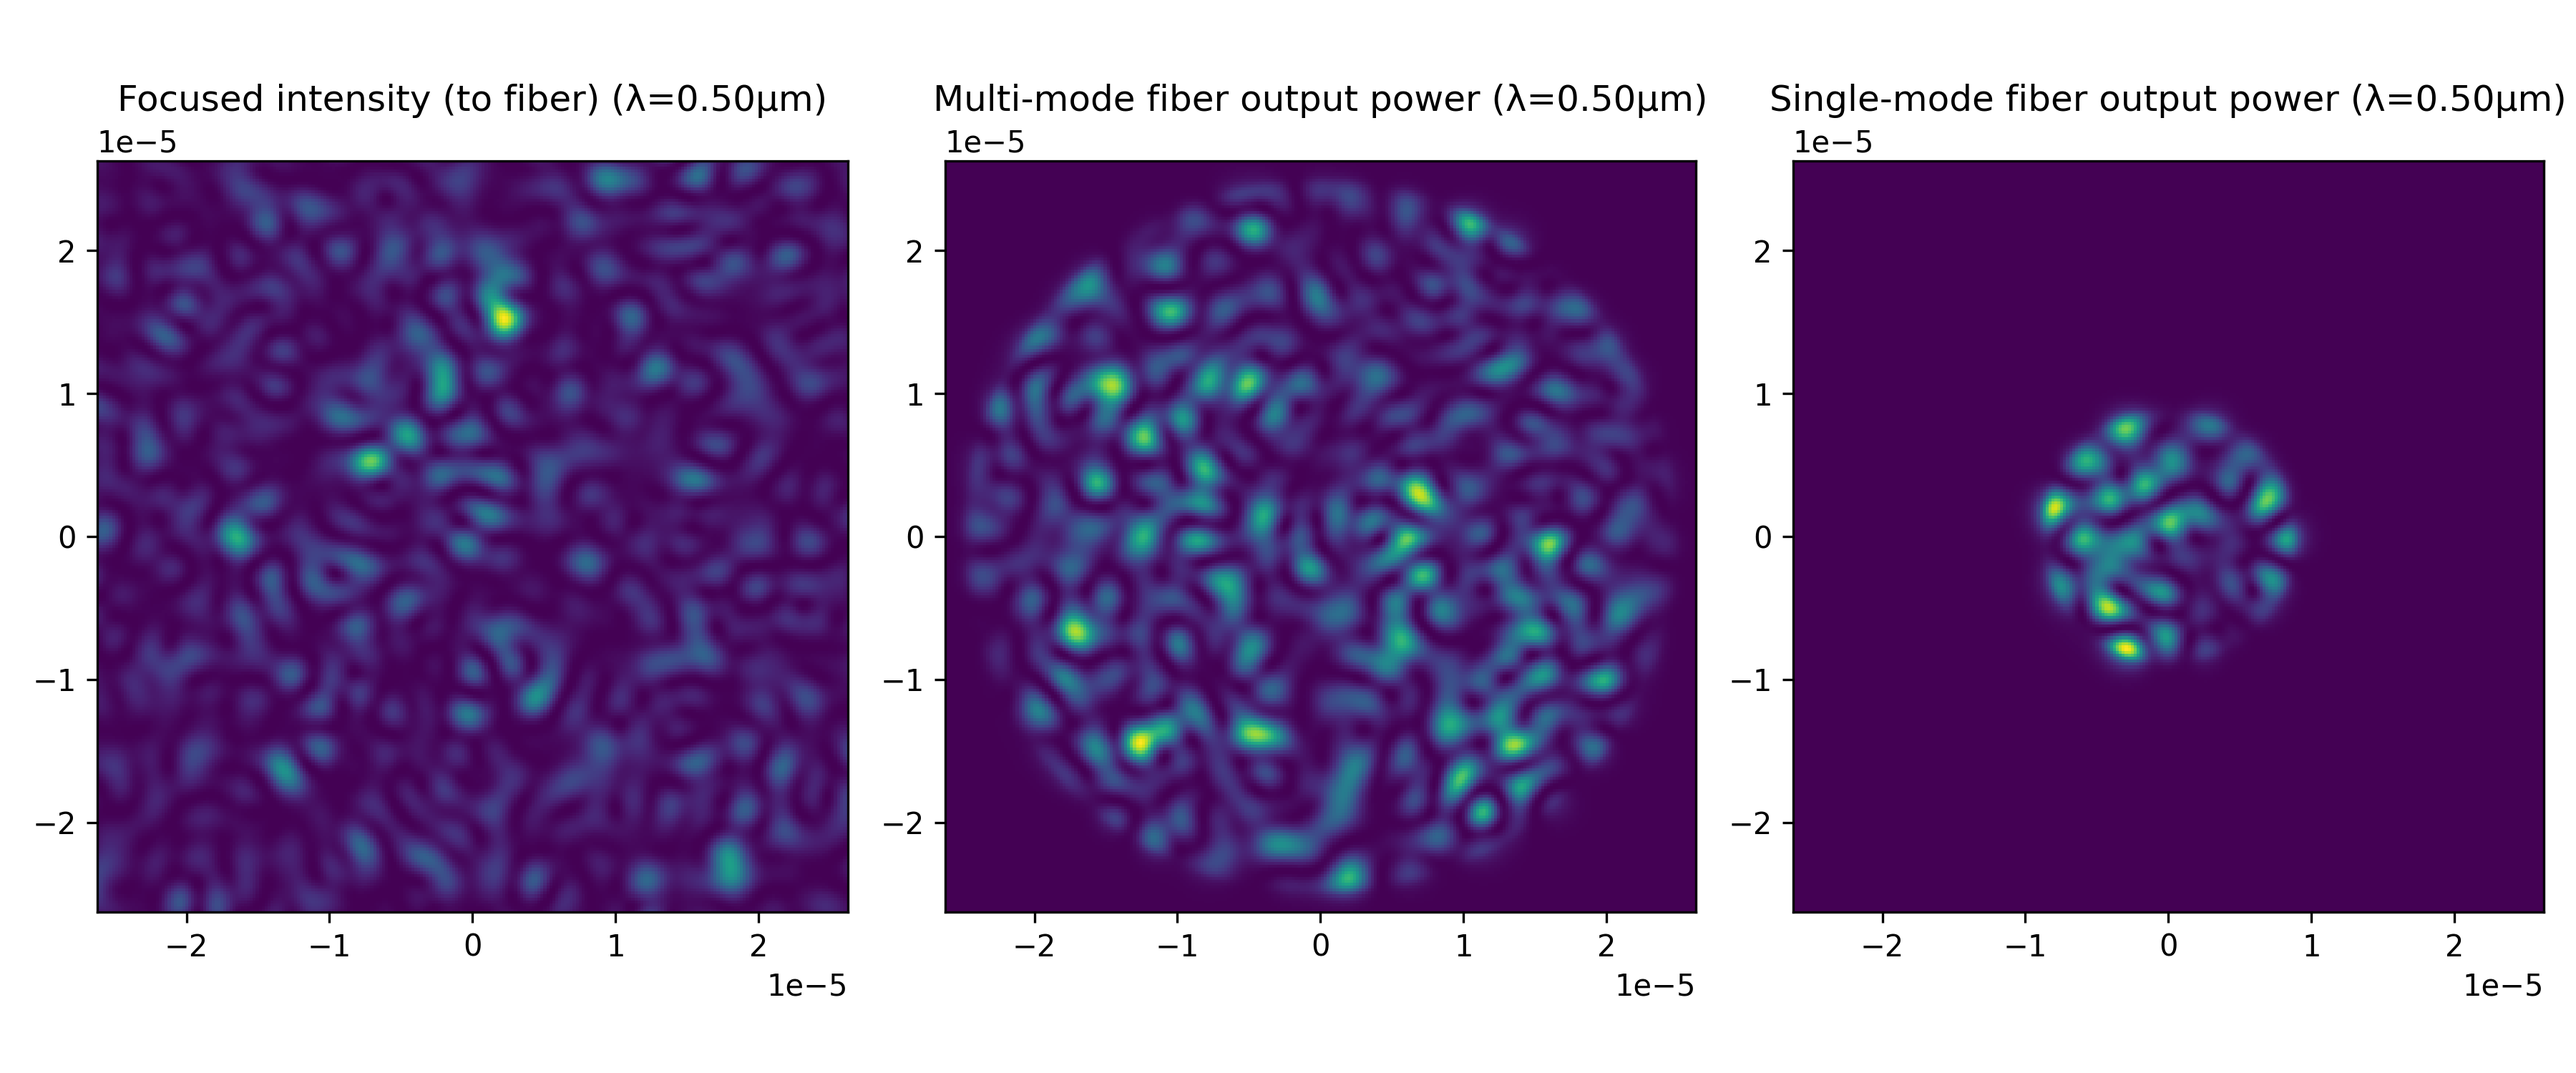
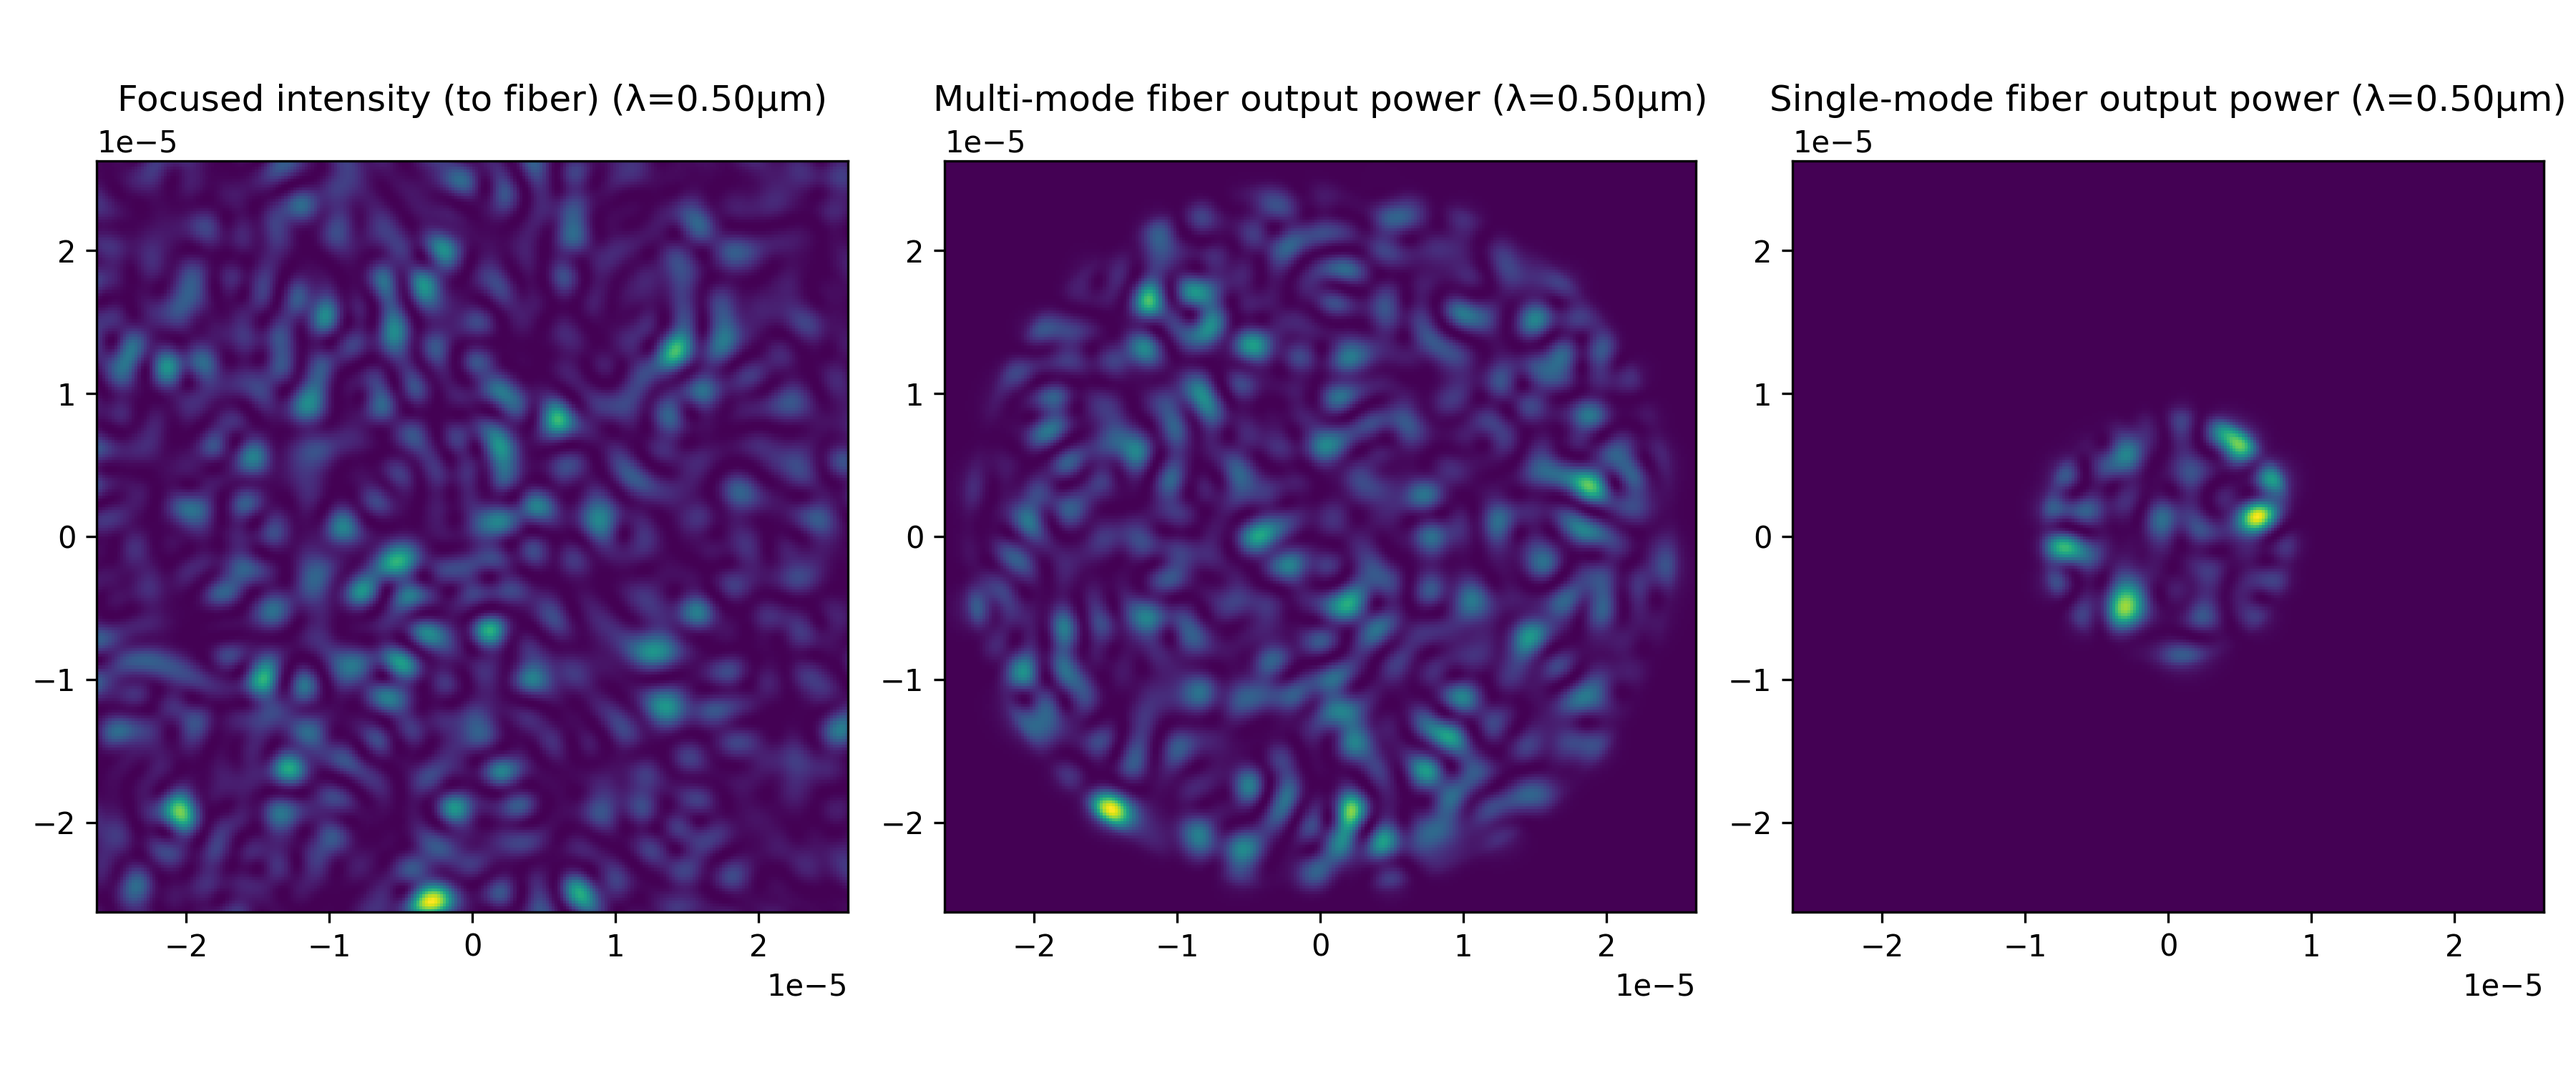
add masive

Changed region(s): [[0.0311, 0.1533, 0.3422, 0.8587], [0.3733, 0.1533, 0.6533, 0.8587], [0.7778, 0.368, 0.9022, 0.644]]

diff --git a/oct_2025/turblance_massive.py b/oct_2025/turblance_massive.py
@@ -1,15 +1,25 @@
 import os
-print(os.path.abspath("turblance.py"))
-"""
+from pathlib import Path
+
+#print("\n")
+#print("path")
+file_name="turblance.py"
+folder_name="oct_2025"
+# If you already know the full path as a string:
+#print("/Users/idoshlomy/PycharmProjects/qkd/oct_2025/turblance.py")
+path_for_run=os.path.abspath(file_name)
+path_for_run=(str(path_for_run)[0:len(str(path_for_run))-len(file_name)]+folder_name+"/"+file_name)
+#print(len(path_for_run))
+#print(path_for_run=="/Users/idoshlomy/PycharmProjects/qkd/oct_2025/turblance.py")
 # runner.py (place next to turblance.py)
+
 RUNS = [0, 1, 2, 3, 4]  # edit as needed
 
-code = open(file_path, "r", encoding="utf-8").read()
+code = open(path_for_run,"r", encoding="utf-8").read()
 code_obj = compile(code, "turblance.py", "exec")
 
 for run_number in RUNS:
     ns = {"run_number": run_number, "__name__": "__main__"}
     print(f"\n=== run_number={run_number} ===")
     exec(code_obj, ns, ns)
-/Users/idoshlomy/PycharmProjects/qkd/oct_2025/turblance.py
-"""
+
